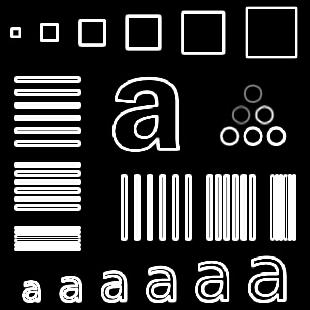
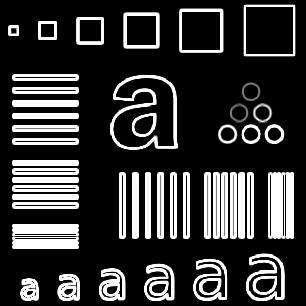
correção da pratica 4

diff --git a/Pratica4/pratica.m b/Pratica4/pratica.m
@@ -33,12 +33,13 @@ imwrite(saida2, "2.jpg");
 magnitude_x = [-1, 0, 1; -2, 0, 2; -1, 0, 1];
 magnitude_y = [1, 2, 1; 0, 0, 0; -1, -2, -1];
 
-imagem3 = padarray(imagem, [3,3], "replicate");
+imagem3 = padarray(imagem, [1,1], "replicate");
 
 gradiente_x = filter2(magnitude_x, imagem3, "valid");
 gradiente_y = filter2(magnitude_y, imagem3, "valid");
 
 saida3 = sqrt(gradiente_x.^2 + gradiente_y.^2);
+#saida3 = abs(gradiente_x) + abs(gradiente_y);
 
 imshow(saida3);
 imwrite(saida3, "3.jpg"); 
